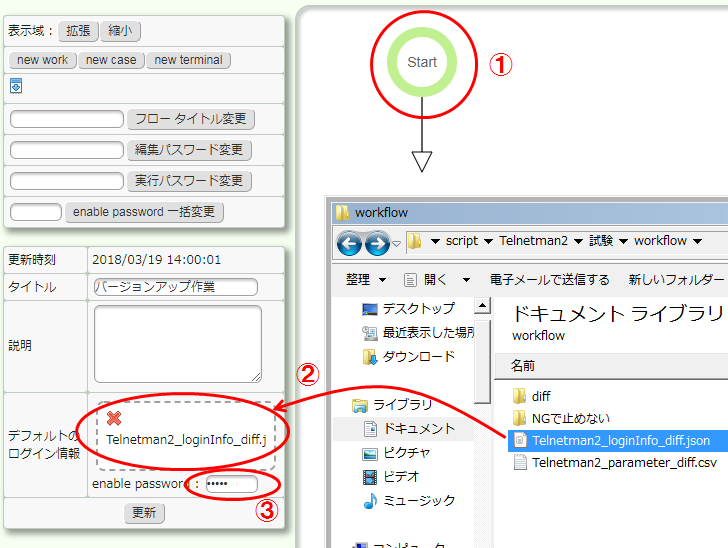
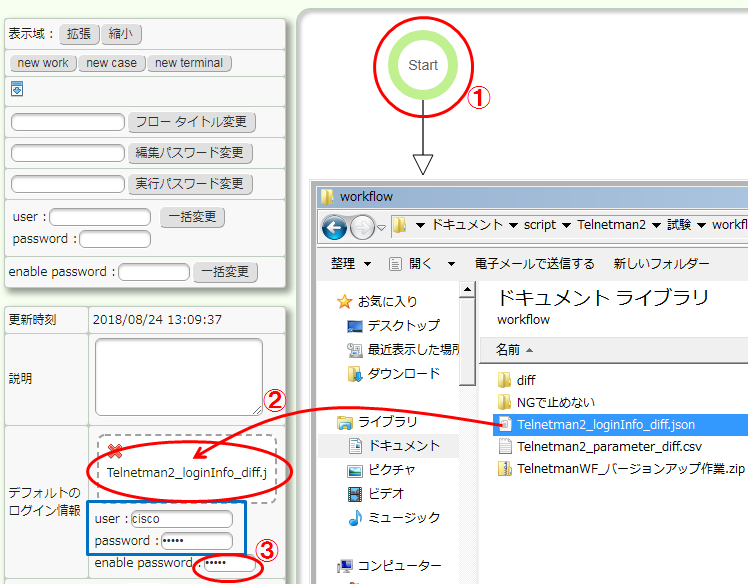
v2.1.0

diff --git a/html/training_05.html b/html/training_05.html
@@ -16,7 +16,7 @@
  <h2>1.&nbsp;Work&nbsp;Flow&nbsp;の作成</h2>
  <article>
   <h3>はじめに</h3>
-  <p><span class='normal_font'>行程の長い作業を行うときはTelnetman&nbsp;Work&nbsp;Flow&nbsp;を使うと捗る。</span><br><span class='normal_font'>ここでは使い方のみを解説するので、入門編から上級編までに作成したTelnetman&nbsp;データを各自適当に使って操作方法を覚える。</span><br><span class='normal_font'>注意として、Work&nbsp;Flow&nbsp;の規模が大きくなるに従って開いた時の描画に時間がかかる。数分を要することもある。待っていれば開く。</span></p>
+  <p><span class='normal_font'>行程の長い作業を行うときはTelnetman&nbsp;Work&nbsp;Flow&nbsp;を使うと捗る。</span><br><span class='normal_font'>ここでは使い方のみを解説するので、入門編から上級編までに作成したTelnetman&nbsp;データを各自適当に使って操作方法を覚える。</span><br><span class='normal_font'>Work&nbsp;Flow&nbsp;の箱の数が多くなるに従って開いた時の描画に時間がかかる。数分を要することもある。待っていれば開く。</span></p>
  </article>
  <article>
   <h3>1-1.&nbsp;Work&nbsp;Flow&nbsp;の新規作成</h3>
@@ -27,34 +27,41 @@
  </article>
  <article>
   <h3>1-2.&nbsp;Start&nbsp;の定義</h3>
-  <p><img src='img/training/training-05-01-02.png' width='728' height='548' alt='Start の定義'></p>
+  <p><img src='img/training/training-05-01-02.png' width='746' height='584' alt='Start の定義'></p>
   <p>
    <span class='normal_font'>&#9312;&nbsp;Start&nbsp;をダブルクリック</span><br>
    <span class='normal_font'>&#9313;&nbsp;「デフォルトのログイン情報」にTelnetman&nbsp;でダウンロードしたログイン情報のデータファイル「Telnetman2_loginInfo_****.json」をドラッグ&amp;ドロップ。</span><br>
-   <span class='normal_font'>&#9314;&nbsp;必要があれば「enable&nbsp;password」に特権モード移行パスワードを入力。</span>
+   <span class='normal_font'>&#9314;&nbsp;必要があれば「enable&nbsp;password」に特権モード移行パスワードを入力。</span><br>
+   <span class='normal_font'>後述する自動実行を行う場合は対象機器へのlogin&nbsp;user,&nbsp;password&nbsp;も入力。</span>
  </p>
- <p><span class='normal_font'>[更新]を押して保存。</span></p>
+ <p>
+  <span class='normal_font'>[更新]を押して設定保存。</span><br>
+  <span class='normal_font'>このとき全ての箱の配置、接続データも保存される。</span>
+ </p>
  </article>
  <article>
   <h3>1-3.&nbsp;work&nbsp;の作成</h3>
-  <p class='float_left'><img src='img/training/training-05-01-03-a.png' width='724' height='588' alt='work の作成'></p>
+  <p class='float_left'><img src='img/training/training-05-01-03-a.png' width='752' height='624' alt='work の作成'></p>
   <p class='float_left'>
-   <span class='normal_font'>&#9312;&nbsp;[new&nbsp;work]をクリック</span><br>
+   <span class='normal_font'>&#9312;&nbsp;[new&nbsp;work]&nbsp;をクリック</span><br>
    <span class='normal_font'>&#9313;&nbsp;適宜ドラッグ&amp;ドロップで位置や線の屈折、接続を調整</span><br>
    <span class='normal_font'>&#9314;&nbsp;タイトルを付ける</span><br>
    <span class='normal_font'>&#9315;&nbsp;流れ図データファイルをドラッグ&amp;ドロップ</span><br>
-   <span class='normal_font'>&nbsp;&nbsp;&nbsp;「Telnetman2_flowchart_****.json」</span>
+   <span class='normal_font'>&nbsp;&nbsp;&nbsp;「Telnetman2_flowchart_****.json」</span><br>
+   <span class='normal_font'>1台のみ&nbsp;:&nbsp;先頭の1台のみが実行対象に。</span><br>
+   <span class='normal_font'>自動実行&nbsp;:&nbsp;この箱にパラメーターシートが来たときに</span><br>
+   <span class='normal_font'>自動で実行される箱を選ぶ。Self&nbsp;は自分自身。</span>
   </p>
   <div class='clear_both'>
-   <p class='float_left'><img src='img/training/training-05-01-03-b.png' width='300' height='460' alt='work の作成'></p>
+   <p class='float_left'><img src='img/training/training-05-01-03-b.png' width='300' height='500' alt='work の作成'></p>
    <p class='float_left'>
-    <span class='normal_font'>個別ログイン情報&nbsp;:&nbsp;デフォルトのログイン情報を使わない場合は個別で設定する。</span><br>
-    <span class='normal_font'>syslog設定、diff設定、任意ログ設定も必要であればドラッグ&amp;ドロップ。</span><br><br>
     <span class='normal_font'>Telnetman&nbsp;のaction&nbsp;の機能でパラメーターシートを編集できるが、</span><br>
     <span class='normal_font'>この段階ではまだ元のパラメーターシートのファイルに書き込まれていない。</span><br>
-    <span class='normal_font'>追加、編集分を破棄するか、書き込んで次に渡すかどうか選択できる。</span><br><br>
+    <span class='normal_font'>追加、編集分を破棄するか、書き込んで次の箱に渡すかどうか選択できる。</span><br><br>
+    <span class='normal_font'>個別ログイン情報&nbsp;:&nbsp;デフォルトのログイン情報を使わない場合は個別で設定する。</span><br>
+    <span class='normal_font'>syslog設定、diff設定、任意ログ設定も必要であればドラッグ&amp;ドロップ。</span><br><br>
     <span class='normal_font'>[更新]を押して設定保存。</span><br>
-    <span class='normal_font'>このとき配置データも保存される。</span>
+    <span class='normal_font'>このとき全ての箱の配置、接続データも保存される。</span>
    </p>
   </div>
  </article>
@@ -65,13 +72,20 @@
  </article>
  <article>
   <h3>1-5.&nbsp;case&nbsp;の作成</h3>
-  <p class='float_left'><img src='img/training/training-05-01-05.png' width='580' height='720' alt='case の作成'></p>
-  <p class='float_left'><span class='normal_font'>パラメーターシートの内容で場合分けできる。</span><br><span class='normal_font'>書き方はTelnetman&nbsp;のaction&nbsp;-&nbsp;分岐条件と同じ。</span><br><span class='normal_font'>最後の分岐条件に「1」と書くとプログラムで言う「else」になる。</span><br><br><span class='normal_font'>領域が狭いときは左上の[拡張]を押す。</span></p>
+  <p class='float_left'><img src='img/training/training-05-01-05.png' width='620' height='756' alt='case の作成'></p>
+  <p class='float_left'>
+   <span class='normal_font'>[new&nbsp;case]&nbsp;をクリック。</span><br>
+   <span class='normal_font'>パラメーターシートの内容で場合分けできる。</span><br>
+   <span class='normal_font'>分岐条件の書き方はTelnetman&nbsp;のaction&nbsp;と同じ。</span><br>
+   <span class='normal_font'>最後の分岐条件に「1」と書くとプログラムで言う「else」になる。</span><br><br>
+   <span class='normal_font'>[更新]を押して設定保存。</span><br>
+   <span class='normal_font'>このとき全ての箱の配置、接続データも保存される。</span>
+  </p>
  </article>
  <article>
-  <h3>1-6.&nbsp;terminal</h3>
-  <p class='float_left'><img src='img/training/training-05-01-06.png' width='752' height='388' alt='terminal'></p>
-  <p class='float_left'><span class='normal_font'>Goal&nbsp;以外で終了させたい所にはterminal&nbsp;を置く。</span></p>
+  <h3>1-6.&nbsp;terminal,&nbsp;Goal</h3>
+  <p class='float_left'><img src='img/training/training-05-01-06.png' width='728' height='472' alt='terminal'></p>
+  <p class='float_left'><span class='normal_font'>Goal&nbsp;以外で終了させたい所にはterminal&nbsp;を置く。</span><br><span class='normal_font'>自動実行する箱を選択できる。</span></p>
  </article>
 </section>
 <section class='section_zone'>
@@ -88,7 +102,7 @@
  </article>
  <article>
   <h3>2-3.&nbsp;Start</h3>
-  <p class='float_left'><img src='img/training/training-05-02-03.png' width='716' height='456' alt='start'></p>
+  <p class='float_left'><img src='img/training/training-05-02-03.png' width='708' height='440' alt='start'></p>
   <p class='float_left'>
    <span class='normal_font'>&#9312;&nbsp;Telnetman&nbsp;のログインIDとパスワードを入力</span><br>
    <span class='normal_font'>&#9313;&nbsp;Start&nbsp;をダブルクリック</span><br>
@@ -99,17 +113,17 @@
  </article>
  <article>
   <h3>2-4.&nbsp;work&nbsp;の実行</h3>
-  <p class='float_left'><img src='img/training/training-05-02-04-a.png' width='592' height='440' alt='work の実行'></p>
+  <p class='float_left'><img src='img/training/training-05-02-04-a.png' width='740' height='452' alt='work の実行'></p>
   <p class='float_left'>
-   <span class='normal_font'>&#9312;&nbsp;緑色で塗りつぶされている所がパラメーターシートのある所。</span><br>
+   <span class='normal_font'>&#9312;&nbsp;緑色の箱がパラメーターシートのある箱</span><br>
    <span class='normal_font'>&nbsp;&nbsp;&nbsp;ダブルクリック</span><br>
    <span class='normal_font'>&#9313;&nbsp;流れ図実行対象に&#10004;</span><br>
    <span class='normal_font'>&#9314;&nbsp;対象機器のログインIDとパスワードを入力</span><br><br>
-   <span class='normal_font'>[exec]を押すとTelnetman&nbsp;Work&nbsp;Flow&nbsp;が</span><br>
+   <span class='normal_font'>[exec]&nbsp;を押すとTelnetman&nbsp;Work&nbsp;Flow&nbsp;が</span><br>
    <span class='normal_font'>Telnetman&nbsp;にアクセスして流れ図を実行する。</span><br><br>
-   <span class='normal_font'>[through]を押すと&#10004;&nbsp;が入っていない機器のパラメーターシートが</span><br>
-   <span class='normal_font'>Through&nbsp;の矢印の方向に移動する。</span><br>
-   <span class='normal_font'>流れ図は実行されない。</span>
+   <span class='normal_font'>[through]&nbsp;を押すと「&#10004;&nbsp;が入っていない機器」の</span><br>
+   <span class='normal_font'>パラメーターシートが、流れ図を実行せずに</span><br>
+   <span class='normal_font'>Through&nbsp;の矢印の方向に移動する。</span>
   </p>
   <div class='clear_both'>
    <p class='float_left'><img src='img/training/training-05-02-04-b.png' width='300' height='144' alt='work の実行結果'></p>
@@ -134,10 +148,10 @@
  <h2>3.&nbsp;手動OK&nbsp;NG</h2>
  <article>
   <h3>3-1.&nbsp;空箱</h3>
-  <p><span class='large_font'>編集画面</span><br><img src='img/training/training-05-03-01-a.png' width='856' height='448' alt='空箱'></p>
+  <p><span class='large_font'>編集画面</span><br><img src='img/training/training-05-03-01-a.png' width='816' height='556' alt='空箱'></p>
   <p><span class='normal_font'>流れ図データを入れないwork&nbsp;つまり、空箱を設置する。</span></p>
-  <p><span class='large_font'>実行画面</span><br><img src='img/training/training-05-03-01-b.png' width='860' height='272' alt='手動OK NG'></p>
-  <p><span class='normal_font'>手動でOK,&nbsp;NG&nbsp;を決められる。</span><br><span class='normal_font'>目視で状況を判断したいとき、別のツールでオペレーションをしたいときなどに使う。</span></p>
+  <p><span class='large_font'>実行画面</span><br><img src='img/training/training-05-03-01-b.png' width='812' height='256' alt='手動OK NG'></p>
+  <p><span class='normal_font'>手動でOK,&nbsp;NG&nbsp;を決められる。</span><br><span class='normal_font'>目視で状況を判断したいとき、別のツールでオペレーションをしたいときなどに使う。</span><br><span class='normal_font'>この箱が自動実行に指定されていても機能しない。</span></p>
  </article>
 </section>
 </body>

diff --git a/html/training_99.html b/html/training_99.html
@@ -21,7 +21,7 @@
  <article>
   <h3>Telnetman&nbsp;Work&nbsp;Flow</h3>
   <p><span class='large_font'>移行元</span></p>
-  <p class='float_left'><img src='img/training/training-99-01-01-a.png' width='300' height='240' alt='Telnetman Work Flow データダウンロード'></p>
+  <p class='float_left'><img src='img/training/training-99-01-01-a.png' width='296' height='284' alt='Telnetman Work Flow データダウンロード'></p>
   <p class='float_left'><span class='normal_font'>編集画面で、ダウンロードのアイコンをクリックしてデータファイルをダウンロード。</span><br><span class='normal_font'>ファイル名は「TelnetmanWF_&lt;フロータイトル&gt;.zip」</span></p>
   <div class='clear_both'>
    <p><span class='large_font'>移行先</span></p>
@@ -30,11 +30,11 @@
   </div>
   <div class='clear_both'>
    <p class='float_left'><img src='img/training/training-99-01-01-c.png' width='552' height='300' alt='Telnetman Work Flow データ取り込み'></p>
-   <p class='float_left'><span class='normal_font'>新規作成か、同じものがある場合は上書きも選択可。</span><br><span class='normal_font'>上書きしてもタスクに変更は無い。</span></p>
+   <p class='float_left'><span class='normal_font'>新規作成か、同じものがある場合は上書きも選択可。</span><br><span class='normal_font'>上書きしても既存タスクに影響は無い。</span></p>
   </div>
   <div class='clear_both'>
-   <p class='float_left'><img src='img/training/training-99-01-01-d.png' width='300' height='232' alt='enable password 一括変更'></p>
-   <p class='float_left'><span class='normal_font'>必要があれば、編集画面で特権モード移行パスワードを変更する。</span><br><span class='normal_font'>一括変更機能を使えばenable&nbsp;password&nbsp;の項目に記入がある全てのwork&nbsp;とStart&nbsp;に変更をかけられる。</span></p>
+   <p class='float_left'><img src='img/training/training-99-01-01-d.png' width='296' height='284' alt='enable password 一括変更'></p>
+   <p class='float_left'><span class='normal_font'>必要があれば、編集画面でlogin&nbsp;user,&nbsp;password&nbsp;や特権モード移行パスワードを変更する。</span><br><span class='normal_font'>一括変更機能を使えばuser,&nbsp;password,&nbsp;enable&nbsp;password&nbsp;の項目に記入がある全てのwork&nbsp;とStart&nbsp;に変更をかけられる。</span></p>
   </div>
  </article>
  <article>
@@ -88,7 +88,7 @@
  <article>
   <h3>正規表現が苦手な人のために</h3>
   <p class='float_left'><img src='img/training/training-99-03-01-a.png' width='332' height='92' alt='正規表現ジェネレーターへのlink'></p>
-  <p class='float_left'><span class='normal_font'>正規表現を生成する機能がある。</span><br><span class='normal_font'>書類のようなアイコンをクリック。</span></p>
+  <p class='float_left'><span class='normal_font'>Action&nbsp;作成画面に正規表現を生成する機能がある。</span><br><span class='normal_font'>書類のようなアイコンをクリック。</span></p>
   <div class='clear_both'>
    <p><img src='img/training/training-99-03-01-b.png' width='852' height='440' alt='正規表現ジェネレーター'></p>
    <p><span class='normal_font'>抜き出したい部分を選択状態にしてから[生成]&nbsp;ボタンを押すと</span><br><span class='normal_font'>それに沿った正規表現が生成される。</span></p>

diff --git a/README.md b/README.md
@@ -25,7 +25,7 @@ https&#58;//server address/Telnetman2/
 ### Docker Container
 If you are going to put TelnetmanWF too, follow the installation manual of TelnetmanWF's page.  
 https://github.com/takahiro-eno/TelnetmanWF  
-This installation manual is for those who use Telnetman2 only.
+This installation manual is available for those who use Telnetman2 only.
 
 1. `git clone https://github.com/takahiro-eno/Telnetman2.git`
 1. `cd Telnetman2`
